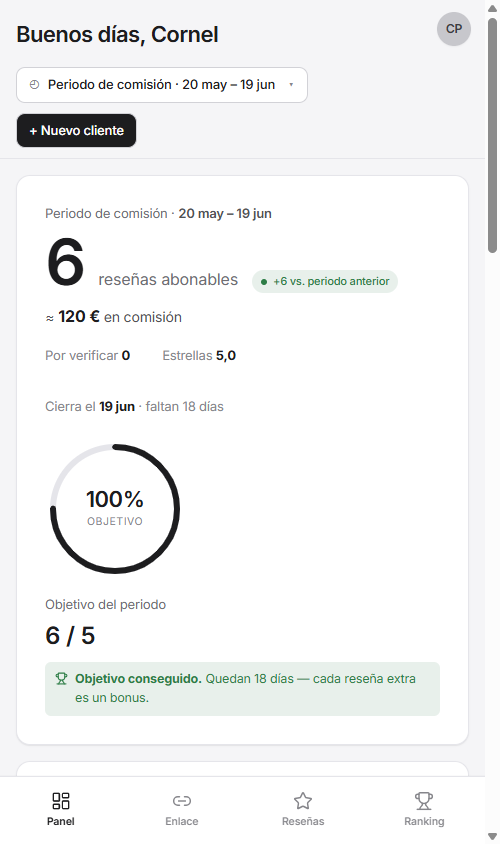
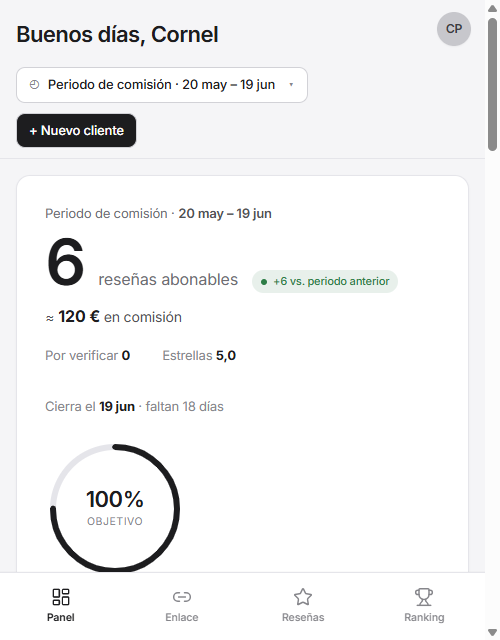
fix(ayuda): las capturas verticales (movil/sidebar) ya no se estiran
HelpFigure usaba width:100%, que AMPLIABA las capturas estrechas al ancho del
contenedor (~900px): la del movil salia gigante, pixelada y sin verse la barra
de pestanas. Ahora usa maxWidth + centrado, y un prop opcional maxWidth para
topar el ancho de las verticales.

- HelpFigure: width:100% -> maxWidth:100% + margin auto; nuevo prop maxWidth.
- ayuda/page.tsx: 10-menu-movil-tabbar maxWidth=300, 11-sidebar maxWidth=240.
- 10-menu-movil-tabbar recapturada mas corta (390x640) para mejor proporcion.

diff --git a/components/help/HelpFigure.tsx b/components/help/HelpFigure.tsx
@@ -14,9 +14,15 @@ import { useState, useEffect, useCallback } from "react";
 export function HelpFigure({
   src,
   caption,
+  maxWidth,
 }: {
   src: string;
   caption: string;
+  /** Tope de ancho de visualización en px. Útil para capturas verticales
+   *  (móvil, sidebar) que de otro modo se verían enormes en el contenedor
+   *  ancho. Si se omite, la imagen llena el ancho disponible (hasta su
+   *  tamaño natural). El lightbox siempre muestra la imagen a tamaño grande. */
+  maxWidth?: number;
 }) {
   const [hasError, setHasError] = useState(false);
   const [open, setOpen] = useState(false);
@@ -107,9 +113,15 @@ export function HelpFigure({
             onError={() => setHasError(true)}
             onClick={() => setOpen(true)}
             style={{
+              // maxWidth (no width:100%) evita AMPLIAR capturas estrechas:
+              // las de escritorio (~1400px) llenan el ancho del contenedor,
+              // pero las verticales (móvil, sidebar) se topan con `maxWidth`
+              // y se muestran tamaño natural CENTRADAS, sin estirarse.
               display: "block",
-              width: "100%",
+              width: maxWidth ? "100%" : undefined,
+              maxWidth: maxWidth ? `${maxWidth}px` : "100%",
               height: "auto",
+              margin: "0 auto",
               background: "var(--surface)",
               cursor: "zoom-in",
             }}

diff --git a/app/(profile)/ayuda/page.tsx b/app/(profile)/ayuda/page.tsx
@@ -182,6 +182,7 @@ export default async function AyudaPage() {
             <HelpFigure
               src="/help/10-menu-movil-tabbar.png"
               caption="En el móvil, la barra de abajo: Panel, Enlace, Reseñas y Ranking."
+              maxWidth={300}
             />
 
             <h3 style={h3Style}>En el ordenador</h3>
@@ -193,6 +194,7 @@ export default async function AyudaPage() {
             <HelpFigure
               src="/help/11-menu-escritorio-sidebar.png"
               caption="En el ordenador, el menú de la izquierda con todas las secciones."
+              maxWidth={240}
             />
             <Callout tone="info">
               En el móvil tienes lo del día a día. Para tareas más cómodas con